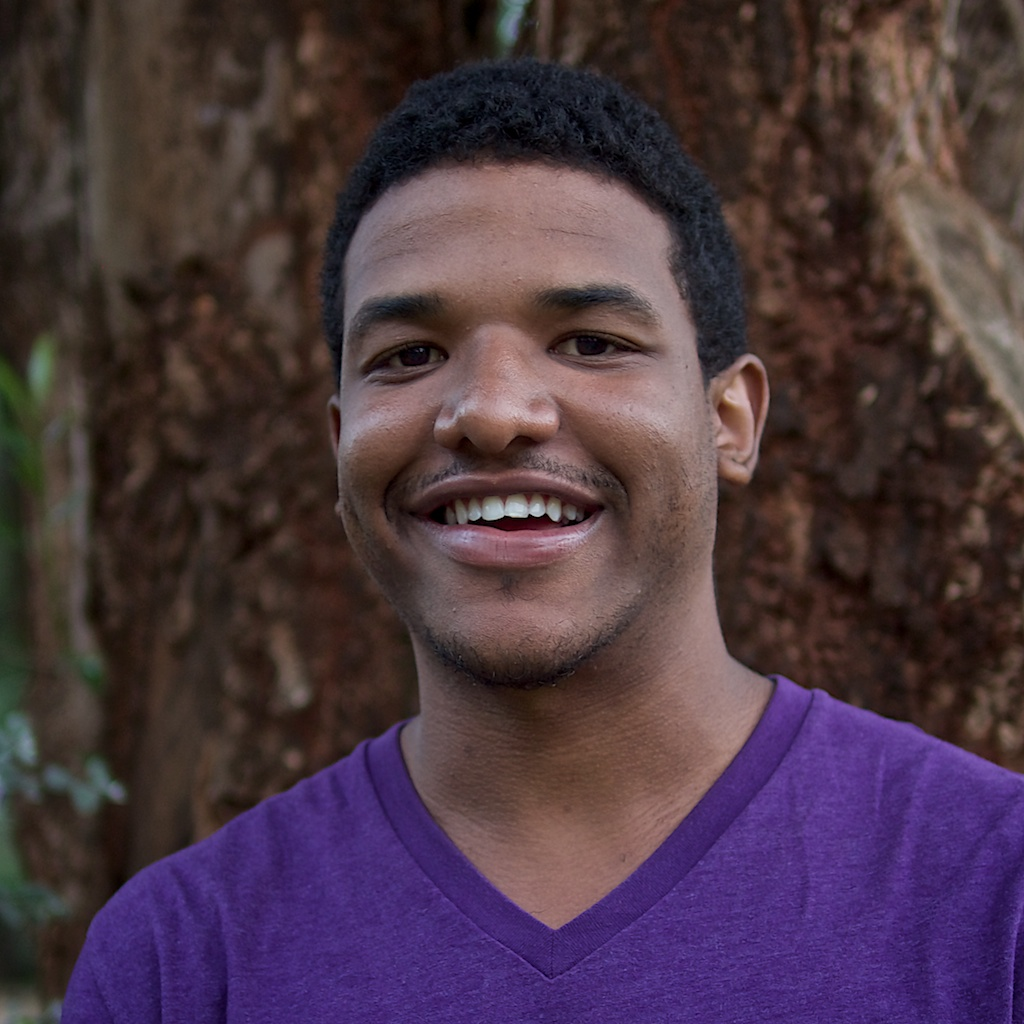
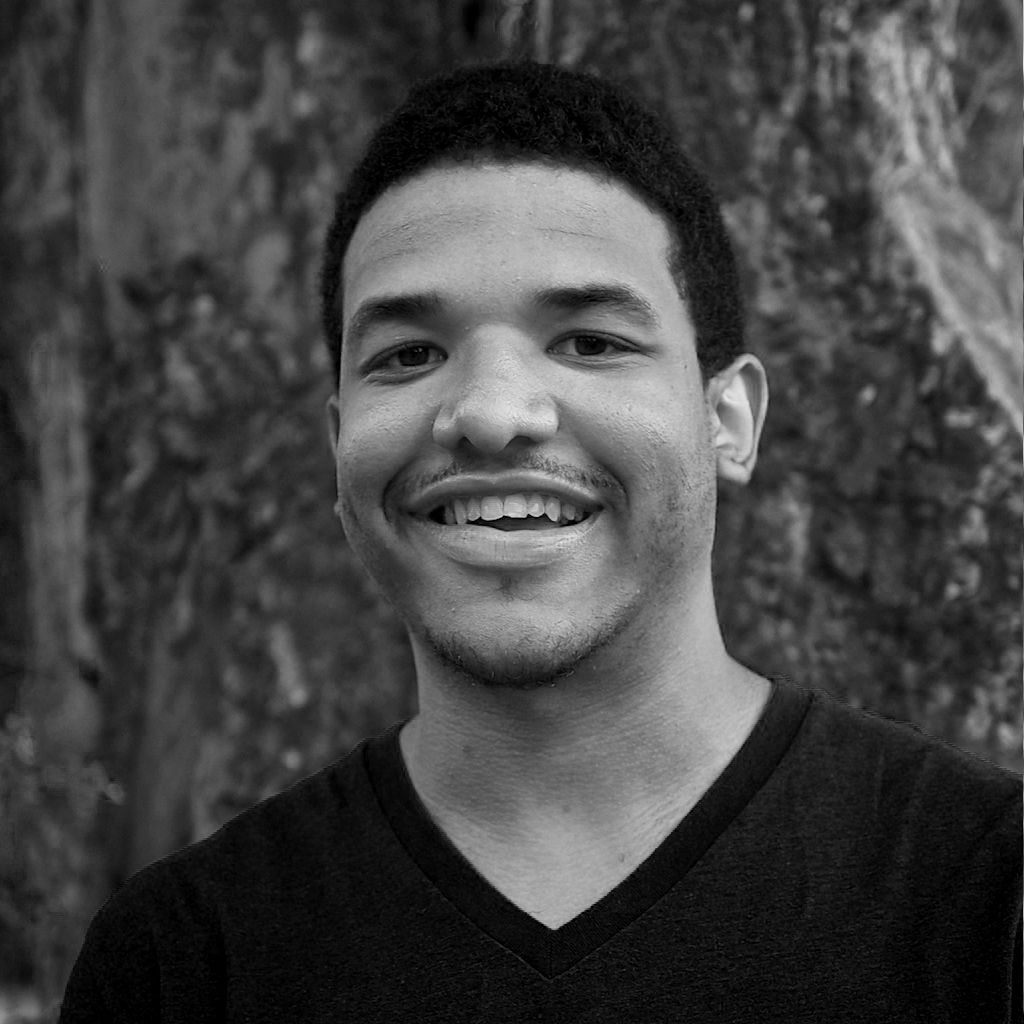
finished author section

diff --git a/css/styles.scss b/css/styles.scss
@@ -60,7 +60,7 @@ header {
 main {
     margin: 0 auto;
     width: 100%;
-    max-width: 62em;
+    max-width: 67em;
 }
 
 article {
@@ -129,23 +129,45 @@ article {
 aside {
     font-size: $em;
     width: 100%;
-    max-width: 20em;
+    max-width: 23em;
     float: right;
     background-color: $white;
-    padding: 1*$em 2*$em 2*$em 2*$em;
     box-sizing: border-box;
-    h1, h2, h3 {
+    h3 {
         font-family: "Bree";
         font-weight: 600;
-        font-size: 1*$em;
+        font-size: 1.2*$em;
         line-height: 1*$em;
-        margin: 1*$em 0;
+        margin: 1.5*$em 0 -0.3*$em 0;
     }
     p {
         font-family: "Bree"; 
         font-weight: 300;
-        font-size: 0.8*$em;
+        font-size: 0.85*$em;
         line-height: 1*$em;
         margin-bottom: 1*$em;
+        text-align: left;
+    }
+    section {
+        padding: 1*$em 2*$em 1*$em 2*$em;
+        padding-bottom: 2em;
+        margin-bottom: 1em;
+        border-bottom: 0.2*$em solid $green;
+    }
+    .author {
+        figure {
+            width: 6em;
+            height: 9em;
+            float: left;
+            overflow: hidden;
+            margin: 1*$em 1em 0 0;
+            img {
+                width: 150%;
+                margin-left: -30%;
+            }
+        }
+    }
+    .share {
+        display: none;
     }
 }

diff --git a/index.html b/index.html
@@ -69,11 +69,11 @@
         <aside>
             <section class="author">
                 <h2 class="title">Author</h2>
-                <h3>Daniel Omondi</h3>
                 <figure class="green-overlay">
-                    <img src="img/Daniel_bw.jpg" class="grayscale" alt="">
+                    <img src="img/Daniel.jpg" class="grayscale" alt="">
                 </figure>
-                <p>
+                <h3>Daniel Omondi</h3>
+                <p class="clearfix">
                     Co-Founder and Director of Kijani, Journalist, born in Kenya, BA in Political Science from Northwestern University, Chicago, Alumnus of the Global Engagement Summit
                 </p>
             </section>

diff --git a/css/_general.scss b/css/_general.scss
@@ -28,8 +28,18 @@ picture, figure {
 	color: $green;
 	font-family: "Yummo";
 	font-weight: 700;
-    font-size: 1.15*$em;
+    font-size: 1.8*$em;
     line-height: 1.5*$em;
 	text-transform: uppercase;
-    margin: 1.5*$em 0 0 0;
+    margin: 1.6*$em 0 0 0;
+}
+
+.clearfix {
+    &:before, &:after {
+        content: " ";
+        display: table;
+    }
+    &:after {
+        clear: both;
+    }
 }

diff --git a/README.md b/README.md
@@ -21,7 +21,7 @@ This does not include font files. To work properly you need to install the Fonts
 - [x] ~~Implement Basic Article Style~~
 - [x] ~~Fix Heading and Hero Image~~
 - [x] ~~Restructure Folders~~
-- [ ] Finish Author Section
+- [x] ~~Finish Author Section~~
 - [ ] Finish More Articles Section
 - [ ] Add Image Captions
 - [ ] Add Navigation
